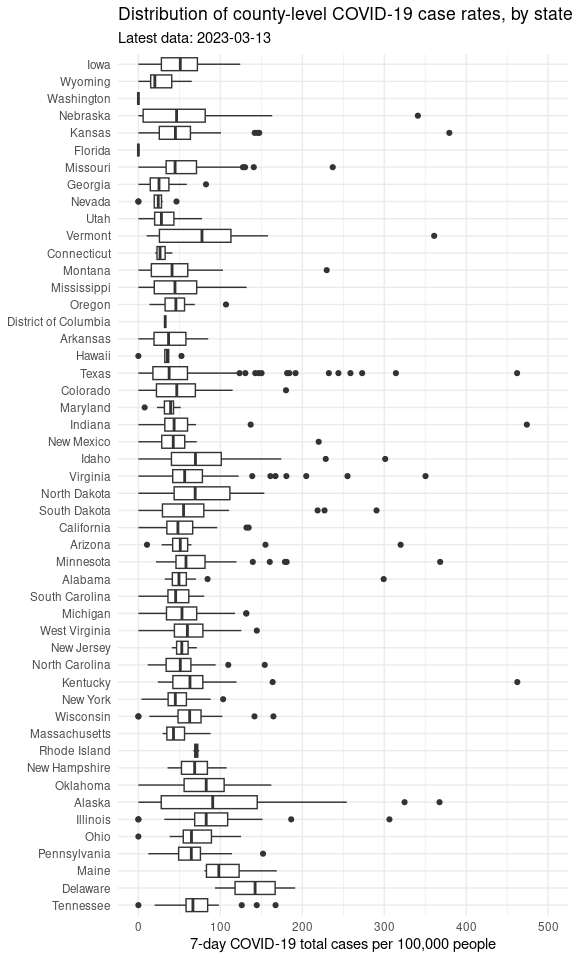
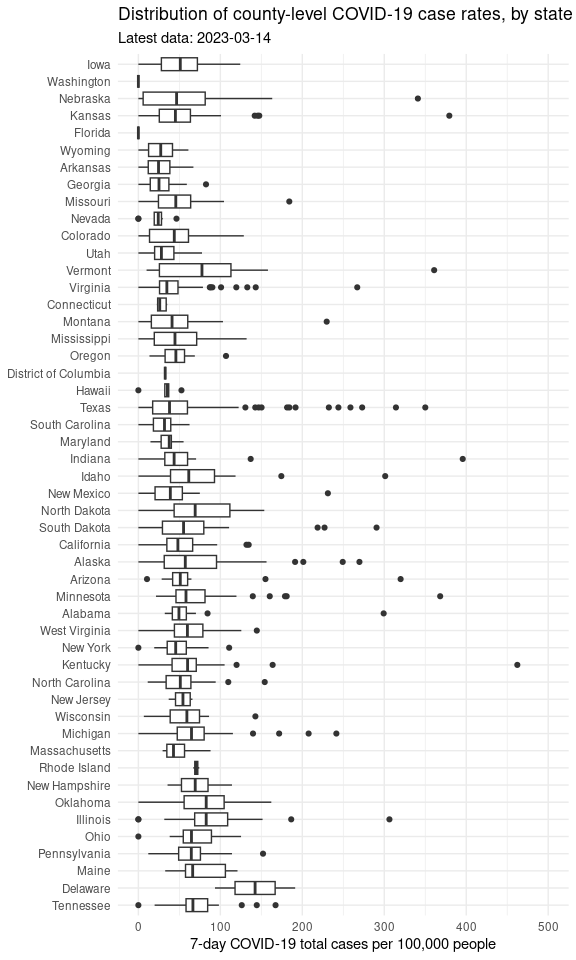
Updated report

diff --git a/README.md b/README.md
@@ -1,7 +1,7 @@
 Minnesota COVID Report
 ================
 
-Report last run: 2023-03-14 22:19:18
+Report last run: 2023-03-15 22:18:25
 
 ## Introduction
 
@@ -107,21 +107,21 @@ rate_data %>%
 
 | county     | state          |     pop | covid_rate |
 |:-----------|:---------------|--------:|-----------:|
-| Boyd       | Kentucky       |   46718 |      48204 |
-| Harlan     | Kentucky       |   26010 |      47893 |
-| Teton      | Wyoming        |   23464 |      45150 |
+| Boyd       | Kentucky       |   46718 |      48193 |
+| Harlan     | Kentucky       |   26010 |      47885 |
+| Teton      | Wyoming        |   23464 |      45188 |
 | Knox       | Kentucky       |   31145 |      44466 |
 | Logan      | Illinois       |   28618 |      43724 |
 | Adams      | Illinois       |   65435 |      41695 |
 | Grant      | West Virginia  |   11568 |      40854 |
-| San Juan   | New Mexico     |  123958 |      40758 |
+| San Juan   | New Mexico     |  123958 |      40763 |
 | Morton     | North Dakota   |   31364 |      39944 |
 | Mercer     | Kentucky       |   21933 |      39137 |
-| Nassau     | New York       | 1356924 |      38612 |
+| Nassau     | New York       | 1356924 |      38616 |
+| Dorchester | South Carolina |  162809 |      38006 |
 | Surry      | North Carolina |   71783 |      37956 |
-| Dorchester | South Carolina |  162809 |      37948 |
 | Stark      | North Dakota   |   31489 |      37905 |
-| Brown      | Wisconsin      |  264542 |      37865 |
+| Brown      | Wisconsin      |  264542 |      37896 |
 | Jackson    | Kentucky       |   13329 |      37850 |
 | Carter     | Tennessee      |   56391 |      37784 |
 | Sioux      | North Dakota   |    4230 |      37683 |
